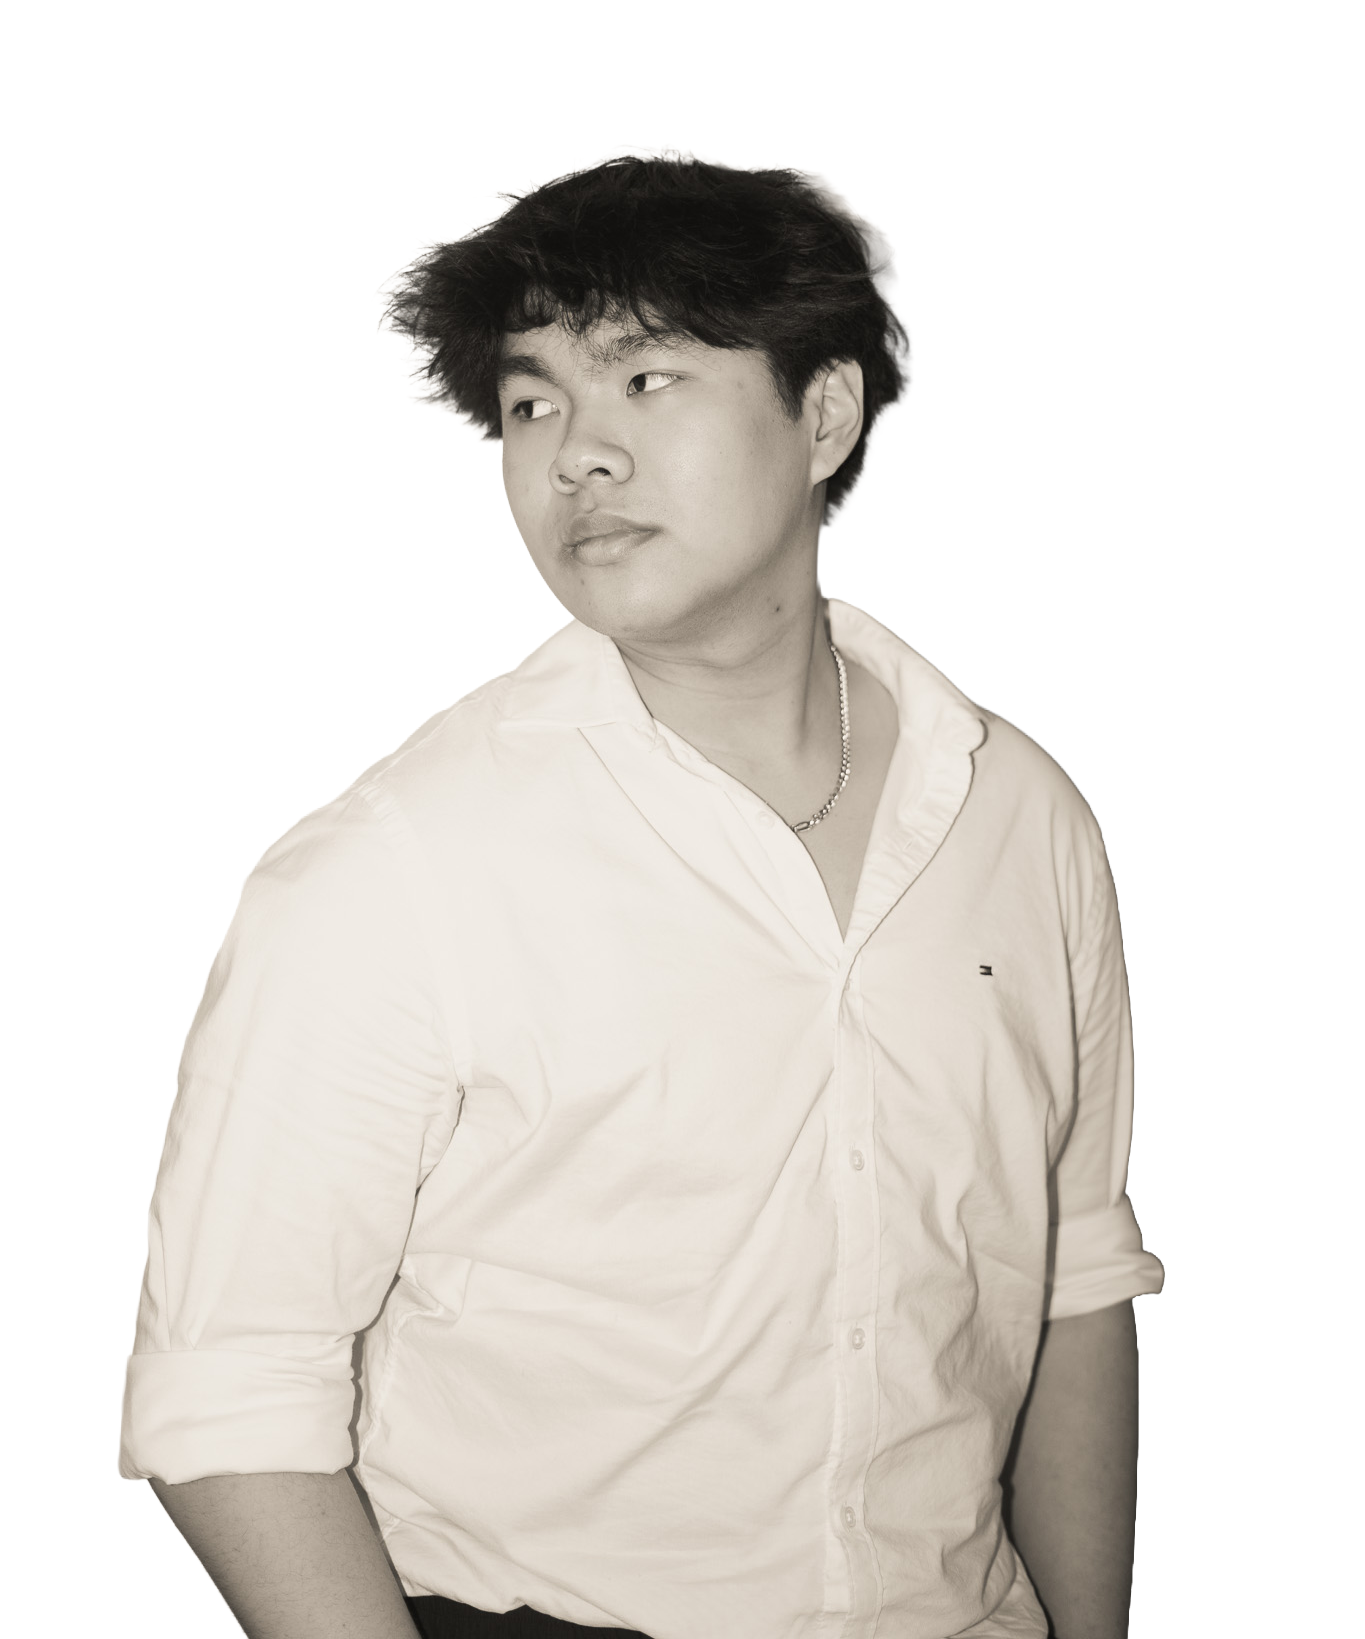
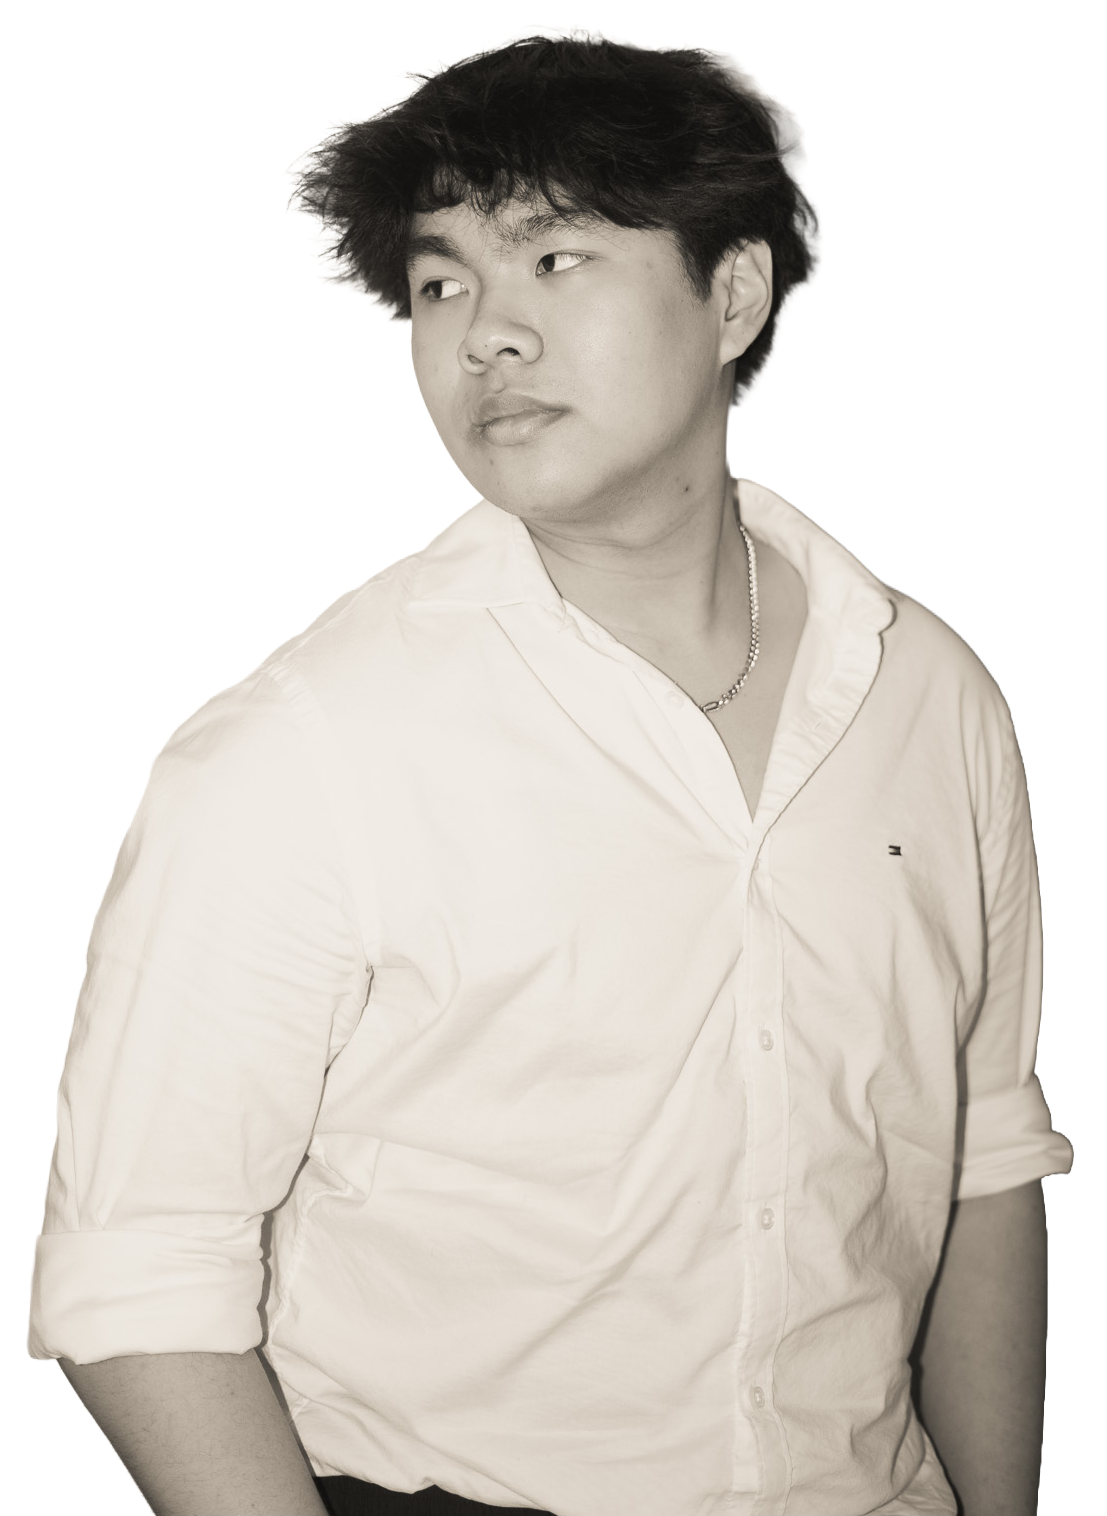
added project folders

diff --git a/src/data/projects.ts b/src/data/projects.ts
@@ -33,8 +33,8 @@ export type Project = {
 export const projects: Project[] = [
   {
     number: "001",
-    title: ["PROJECT", "ALPHA"],
-    slug: "project-alpha",
+    title: ["NIGHT IN", "SHIBUYA"],
+    slug: "night-in-shibuya",
     category: "CREATIVE DEVELOPMENT",
     description:
       "A generic case study placeholder for a creative project. Replace this with the real project story later.",
